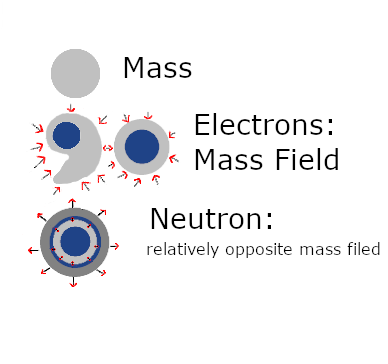
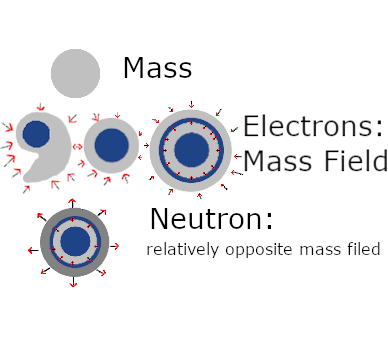
update

Changed region(s): [[0.0, 0.272, 1.0, 0.544]]

diff --git a/README.md b/README.md
@@ -11,13 +11,13 @@
 
    #### Mass(original proton concept, granular fluid)
    Absorb the energy of infrared electric particles (frequency flutter, spin, kinetic energy
-   of motion acceleration),help other electric particles charge(Beyond the infrared frequency, 
-   the critical value is temporarily unclear and is related to the mass of the crown width).
-   The force of mass is transmitted by mass and mass,mass is attracted by mass field,and it is 
-   conduction influenced by mass field's direction of the force and the acceleration of the 
-   force.(mass join to mass field as a member).The farther away from the source of the mass field,
-   the smaller the acceleration of the force, and vice versa(A 1 dollar magnet is definitely not as 
-   good as a 100 dollar magnet).Due to the influence of the Earth's mass field, with the same light source,
+   of motion acceleration).After electron generation, establish sustained force transmission around the environment, 
+   so mass needs to help electronics(Beyond the infrared low frequency, the critical value is temporarily unclear 
+   and is related to the mass of the crown width)maintain various accelerations so that they do not quickly disappear.
+   The force of mass is transmitted by mass and mass,mass is attracted by mass field,and it is conduction influenced 
+   by mass field's direction of the force and the acceleration of the force.(mass join to mass field as a member).
+   The farther away from the source of the mass field,the smaller the acceleration of the force, and vice versa.
+   Due to the influence of the Earth's mass field, with the same light source,
    downward light is faster than upward light two Earth's gravitational acceleration.Due to the influence of 
    infrared electric particles(It's not migrated situation, but flutter within the same mass),mainly due to
    infrared electrons traction by mass,spinning infrared electrons flutter in the mass along a circular orbit path,
@@ -29,7 +29,7 @@
    and being in an unstable state. Infinite expansion will become a new problem).Mass without personality can only 
    follow the flow(mass field),individualized mass can soar into the sky and roam the interstellar space.
 
-   #### Electrons(mass point,with frequency flutter, the spinning mass generates a mass field and forms electrons. If one of them is zero, the electrons disappear and the mass remains)
+   #### Electrons(with frequency flutter, the spinning mass generates a mass field and forms electrons. If one of them is zero, the electrons disappear and the mass remains)
    Usually, the collision between mass (with electrons in general) and mass (with electrons in general) consumes 
    the capacity of these two masses and allocates a new mass to form the direction and acceleration of 
    movement(Calculate using vector method. The speed of light is very fast and difficult to capture, but 
@@ -56,7 +56,7 @@
    #### Neutron
 The electric particle (y frequency) collides with the electric particle from behind and is enveloped 
 (moving in the same direction, accelerating faster, so it catches up),form internal entanglement. The collided 
-electric particle is wrapped in the colliding electric particle, and due to centripetal squeezed and causing 
+electric particle is wrapped in the colliding electric particle, and due to within atoms centripetal squeezed and causing 
 force reversal,so the neutron outer wall exhibits a relatively opposite characteristic.Neutrons that are independent
  and stationary can be destroyed by slight heating.
 
